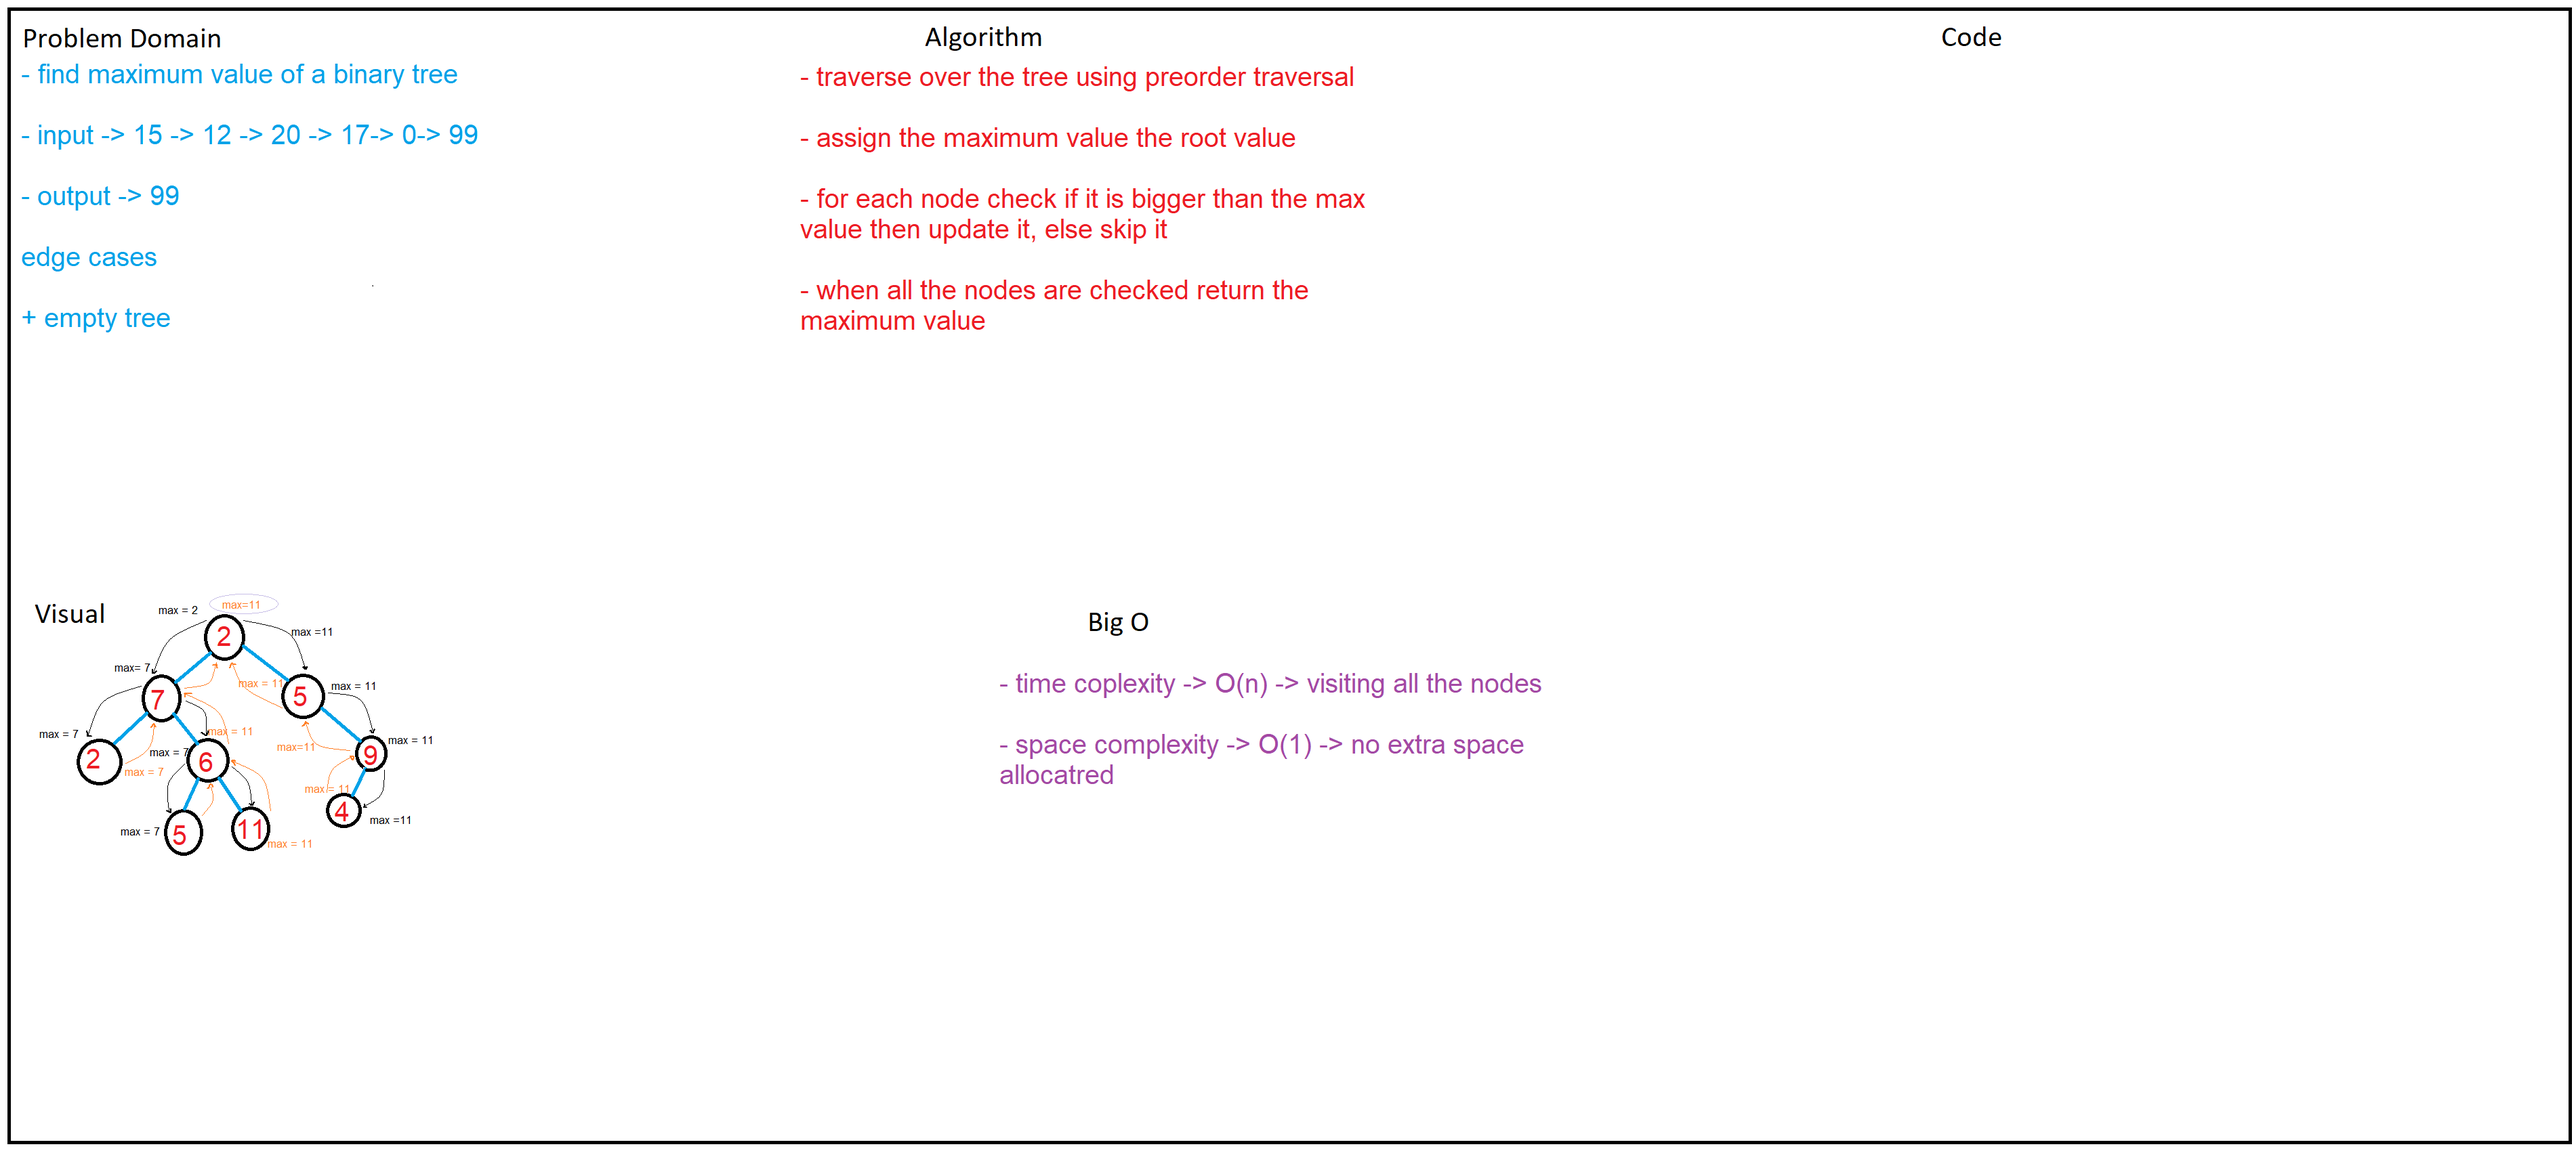
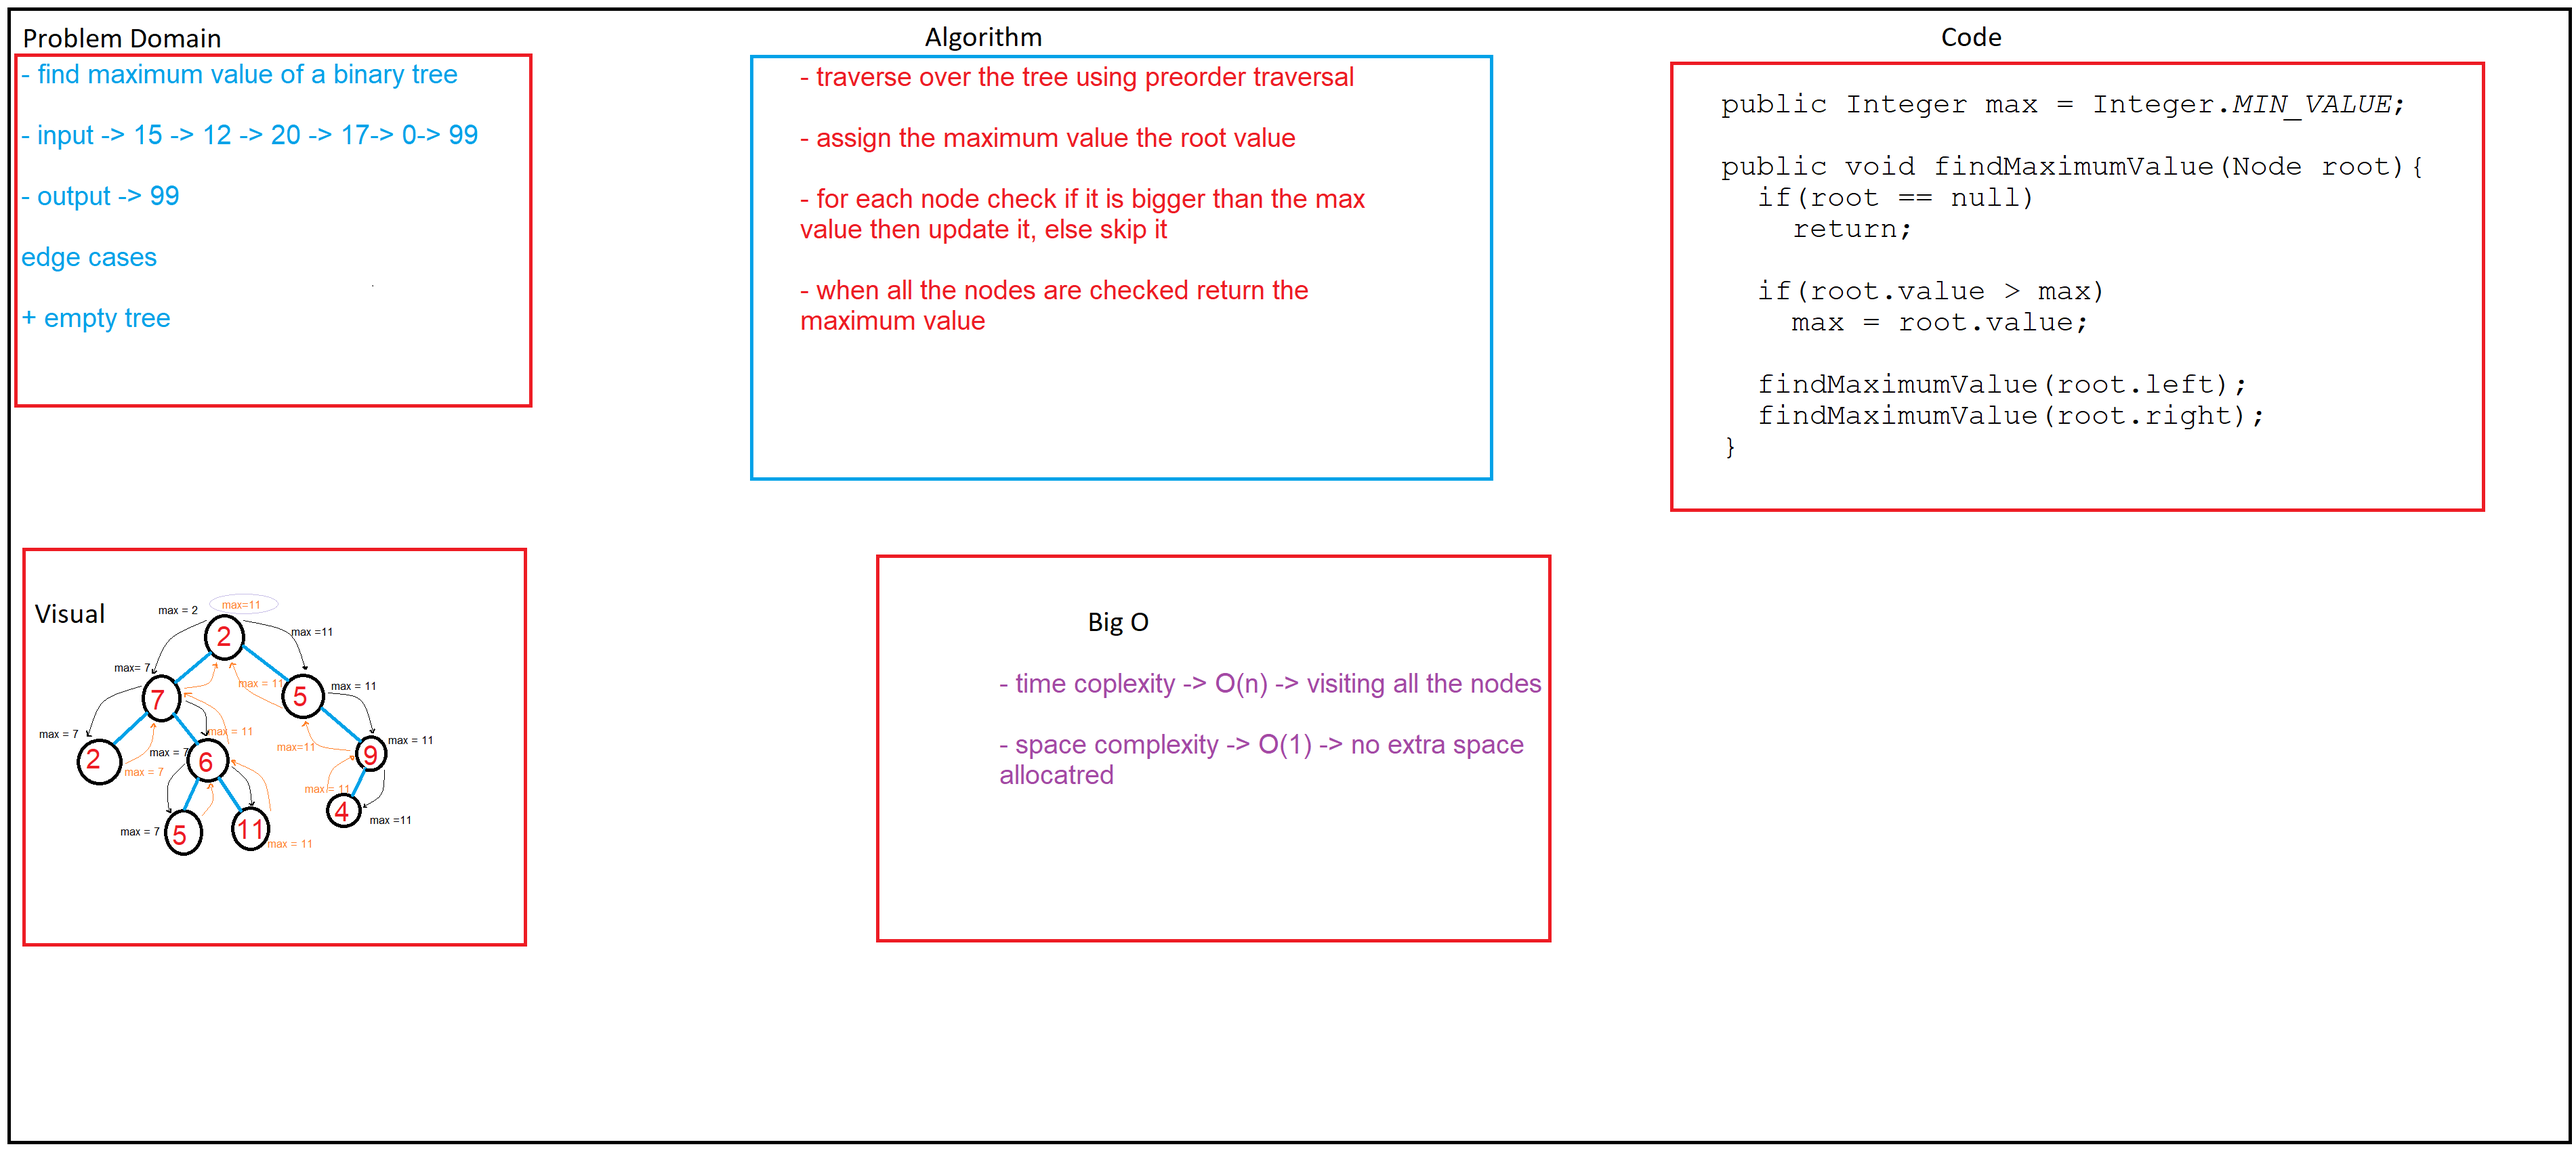
challenge 16 done

diff --git a/challenges/codes/AppTest.java b/challenges/codes/AppTest.java
@@ -10,6 +10,8 @@ import codes.app.src.main.stacksandqueues.PseudoQueue;
 import codes.app.src.main.stacksandqueues.Queue;
 import codes.app.src.main.stacksandqueues.Stack;
 import codes.app.src.main.tree.BinarySearchTree;
+import codes.app.src.main.tree.Node;
+import codes.app.src.main.tree.Tree;
 import codes.app.src.main.utilites.AnimalShelter;
 import codes.app.src.main.utilites.MultiBracketValidation;
 import org.junit.Test;
@@ -705,5 +707,49 @@ public class AppTest {
   public void testContainsEmpty(){
     BinarySearchTree tree = new BinarySearchTree();
     assertFalse("test that a value exists in empty tree", tree.contains(99, tree.root));
+  }
+
+  @Test
+  public void testMaximumValueTree(){
+    Tree tree = new Tree();
+    // hard-coded tree
+
+    // root
+    tree.root = new Node(2);
+
+    // left side
+    tree.root.left = new Node(7);
+    tree.root.left.left = new Node(2);
+    tree.root.left.right = new Node(6);
+    tree.root.left.right.left = new Node(5);
+    tree.root.left.right.right = new Node(11);
+
+    // right side
+
+    tree.root.right = new Node(5);
+    tree.root.right.right = new Node(9);
+    tree.root.right.right.left = new Node(4);
+    tree.findMaximumValue(tree.root);
+    Integer expected = 11;
+    assertEquals("tests the max value in tree which is 11", expected, tree.max);
+  }
+
+  @Test
+  public void testMaximumOneValueTree(){
+    Tree tree = new Tree();
+    // hard-coded tree
+
+    // root
+    tree.root = new Node(2);
+    tree.findMaximumValue(tree.root);
+    Integer expected = 2;
+    assertEquals("tests the max value in one-value tree which is 2", expected, tree.max);
+  }
+
+  @Test
+  public void testMaximumValueEmptyTree(){
+    Tree tree = new Tree();
+    Integer expected = Integer.MIN_VALUE;
+    assertEquals("tests the max value in empty tree, the max will be the minimum value of Integer", expected, tree.max);
   }
 }

diff --git a/challenges/codes/app/src/main/tree/App.java b/challenges/codes/app/src/main/tree/App.java
@@ -4,25 +4,27 @@ package codes.app.src.main.tree;
 public class App {
 
   public static void main(String[] args){
-    BinarySearchTree tree = new BinarySearchTree();
-//    tree.add(15);
-//    tree.add(12);
-//    tree.add(20);
-//    tree.add(0);
-//    tree.add(13);
-//    tree.add(18);
-//    System.out.println("root: " + tree.root.value);
-//    tree.preOrder(tree.root);
-////    Collections.reverse(tree.preOrderList);
-//    System.out.println("preOrder:  " + tree.preOrderList);
-//    tree.inOrder(tree.root);
-////    Collections.reverse(tree.inOrderList);
-//    System.out.println("InOrder:  " + tree.inOrderList);
-//    tree.postOrder(tree.root);
-////    Collections.reverse(tree.postOrderList);
-//    System.out.println("postOrder:  " + tree.postOrderList);
+    Tree tree = new Tree();
+    // hard-coded tree
 
-//    System.out.println(tree);
-    System.out.println(tree.findMaximumValue(tree.root));
+    // root
+    tree.root = new Node(2);
+
+//    // left side
+//    tree.root.left = new Node(7);
+//    tree.root.left.left = new Node(2);
+//    tree.root.left.right = new Node(6);
+//    tree.root.left.right.left = new Node(50);
+//    tree.root.left.right.right = new Node(11);
+//
+//    // right side
+//
+//    tree.root.right = new Node(5);
+//    tree.root.right.right = new Node(9);
+//    tree.root.right.right.left = new Node(4);
+    tree.findMaximumValue(tree.root);
+    System.out.println(tree.max);
+
+//    System.out.println(Integer.MIN_VALUE);
   }
 }

diff --git a/challenges/codes/app/src/main/tree/BinarySearchTree.java b/challenges/codes/app/src/main/tree/BinarySearchTree.java
@@ -55,15 +55,15 @@ public class BinarySearchTree extends Tree{
     return true;
   }
 
-  public Integer findMaximumValue(Node root){
-    if(root == null)
-      return null;
-    Node temp = root;
-    while(temp.right != null){
-      temp = temp.right;
-    }
-    return temp.value;
-  }
+//  public Integer findMaximumValue(Node root){
+//    if(root == null)
+//      return null;
+//    Node temp = root;
+//    while(temp.right != null){
+//      temp = temp.right;
+//    }
+//    return temp.value;
+//  }
 
   private String result = "root ➔ ";
   public void getTree(Node root){

diff --git a/challenges/codes/app/src/main/tree/Tree.java b/challenges/codes/app/src/main/tree/Tree.java
@@ -5,7 +5,7 @@ import org.jetbrains.annotations.NotNull;
 import java.util.ArrayList;
 
 public class Tree {
-  Node root;
+  public Node root;
   public Tree(){
     root = null;
   }
@@ -45,6 +45,18 @@ public class Tree {
       postOrder(root.right);
 
     postOrderList.add(root.value);
+  }
+
+  public Integer max = Integer.MIN_VALUE;
+
+  public void findMaximumValue(Node root){
+    if(root == null)
+      return;
+    if(root.value > max)
+      max = root.value;
+
+    findMaximumValue(root.left);
+    findMaximumValue(root.right);
   }
 
 }

diff --git a/challenges/codes/app/src/main/tree/Node.java b/challenges/codes/app/src/main/tree/Node.java
@@ -2,8 +2,8 @@ package codes.app.src.main.tree;
 
 public class Node {
   public Integer value;
-  Node right;
-  Node left;
+  public Node right;
+  public Node left;
   public Node(Integer value){
     this.value = value;
     right = null;
